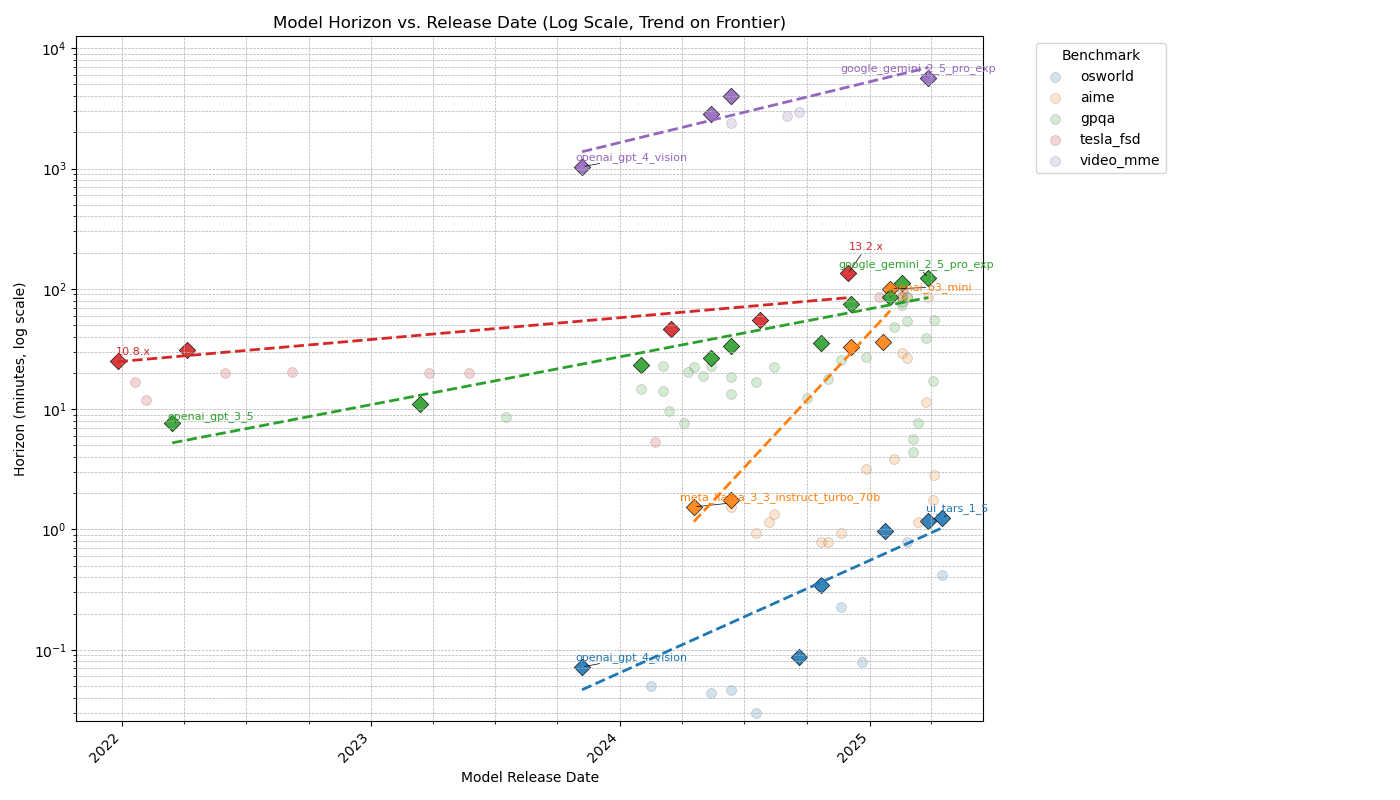
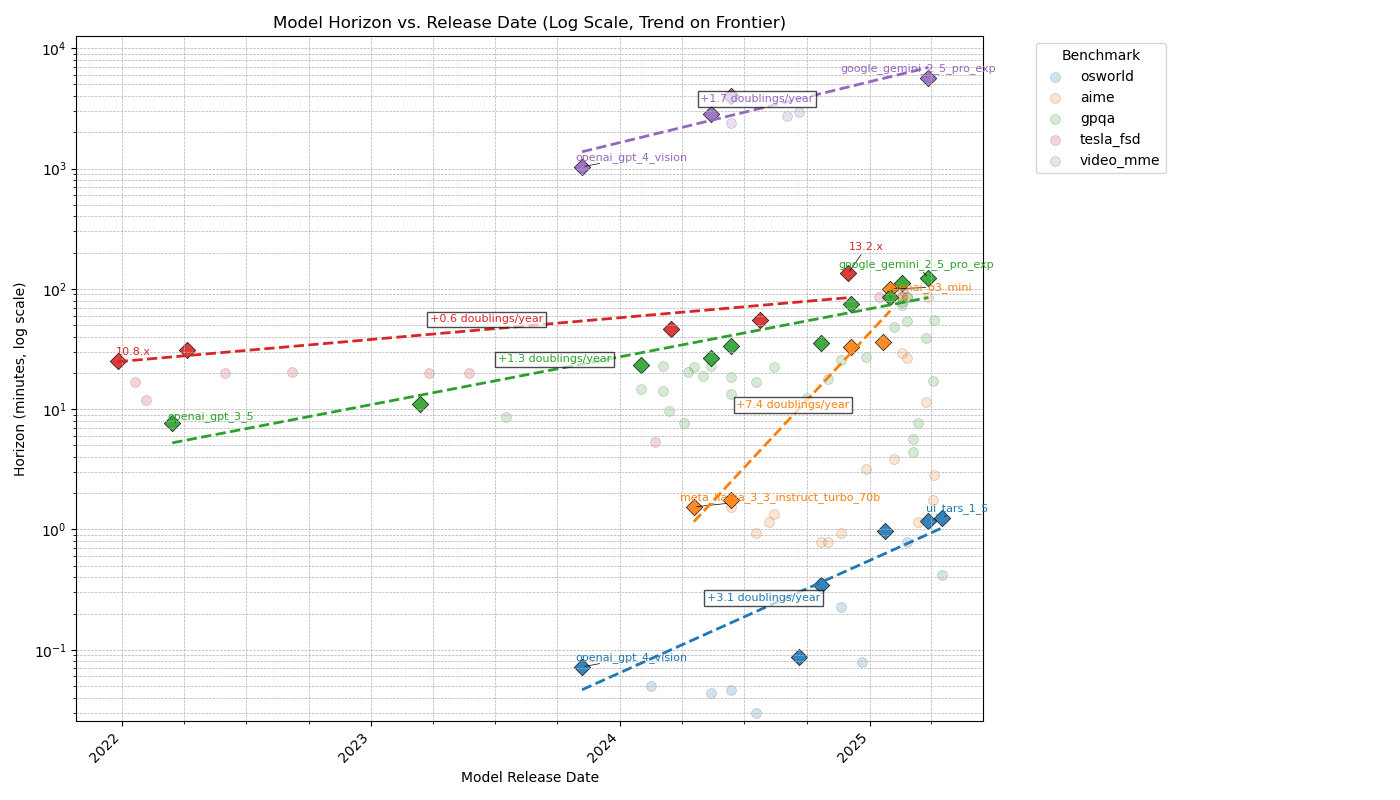
more text on lines plot

diff --git a/plots.py b/plots.py
@@ -150,6 +150,28 @@ def plot_lines_over_time(df):
             x_line_num = np.linspace(X.min(), X.max(), 100)
             y_line_log = poly(x_line_num)
 
+            # Calculate doubling rate (slope in doublings per year)
+            # The slope of log10(y) vs. x gives us log10(2) per unit x
+            # To convert to doublings per year, divide by log10(2)
+            doubling_rate = coeffs[0] * 365 / np.log10(2)  # Convert from per day to per year
+            
+            # Add text with doubling rate near the middle of the line
+            mid_point_idx = len(x_line_num) // 2
+            mid_x_num = x_line_num[mid_point_idx]
+            mid_y = 10**y_line_log[mid_point_idx]
+            
+            # Format the doubling rate with appropriate sign
+            if doubling_rate > 0:
+                rate_text = f"+{doubling_rate:.1f} doublings/year"
+            else:
+                rate_text = f"{doubling_rate:.1f} doublings/year"
+                
+            # Convert numerical date to datetime for text positioning
+            mid_x = mdates.num2date(mid_x_num)
+            
+            ax.text(mid_x, mid_y * 1.1, rate_text, fontsize=8, color=color, 
+                   ha='center', va='bottom', bbox=dict(facecolor='white', alpha=0.7, pad=2))
+
             x_line_date = mdates.num2date(x_line_num)
             y_line = 10**y_line_log
 

diff --git a/README.md b/README.md
@@ -24,10 +24,9 @@ Estimate the time horizon of AIs over time on various domains like knowledge and
 - [ ] TheAgentCompany? but no human baselines
 - [ ] compare HCAST estimated horizon to actual horizon
 - [ ] aggregating benchmarks into categories
-- [ ] visual understanding benchmark
+- [ ] second visual understanding benchmark: UCF101
 - [ ] upgrade to use quantiles rather than individual lengths
-- [ ] upgrade to use 
-- [ ] amc12?
+- [ ] easier math benchmark like amc8?
 
 plan for Video-MME:
 - 
